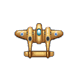
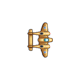
start screen v2

Changed region(s): [[0.175, 0.275, 0.8, 0.75]]

diff --git a/1942-FeedTheBirds/src/Terrain/TerrainStartScreen.cpp b/1942-FeedTheBirds/src/Terrain/TerrainStartScreen.cpp
@@ -6,6 +6,7 @@ TerrainStartScreen::TerrainStartScreen()
 	stopWarsImage = al_load_bitmap("1942-FeedTheBirds\\data\\Bitmaps\\startscreen\\stopWarsImage.png");
 	font1 = al_load_ttf_font(font_file, 48, 0);
 	font2 = al_load_ttf_font(font_file, -48, 0);
+	font3 = al_load_ttf_font(font_file, 20, 0);
 	width = START_SCREEN_WINDOW_WIDTH;
 	height = START_SCREEN_WINDOW_HEIGHT;
 	velX = 0;
@@ -37,6 +38,10 @@ void TerrainStartScreen::drawBackground() {
 	al_draw_text(font2, bright_green, 310, 20, ALLEGRO_ALIGN_CENTER, "1942");
 	al_draw_text(font1, bright_green, 310, 90, ALLEGRO_ALIGN_CENTER, "STOP WARS!");
 
-	al_draw_bitmap(stopWarsImage, 180, 150, 0);
+	al_draw_bitmap(stopWarsImage, 210, 150, 0);
+
+	al_draw_text(font3, grey, 310, 310, ALLEGRO_ALIGN_CENTER, "Irini");
+	al_draw_text(font3, grey, 310, 340, ALLEGRO_ALIGN_CENTER, "Eleni");
+	al_draw_text(font3, grey, 310, 370, ALLEGRO_ALIGN_CENTER, "Nikos");
 	
 }

diff --git a/1942-FeedTheBirds/include/Terrain/Terrain.h b/1942-FeedTheBirds/include/Terrain/Terrain.h
@@ -47,8 +47,9 @@ public:
 	ALLEGRO_BITMAP* bgImage = NULL;
 	ALLEGRO_BITMAP* remainingLivesImage = NULL;
 	ALLEGRO_BITMAP* remainingLoopsImage = NULL;
-	ALLEGRO_FONT *font1, *font2;
+	ALLEGRO_FONT *font1, *font2, *font3;
 	ALLEGRO_COLOR bright_green;
+	ALLEGRO_COLOR grey;
 	const char* font_file;
 
 	static void cleanUp() {}

diff --git a/1942-FeedTheBirds/src/Terrain/Terrain.cpp b/1942-FeedTheBirds/src/Terrain/Terrain.cpp
@@ -17,6 +17,7 @@ Terrain::Terrain() :
 		return;
 	}
 	bright_green = al_map_rgba_f(0.5, 1.0, 0.5, 1.0);
+	grey = al_map_rgba_f(0.7, 0.7, 0.7, 1.0);
 }
 
 Terrain::~Terrain() {
